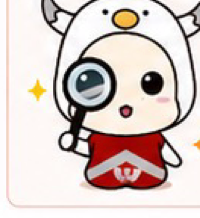
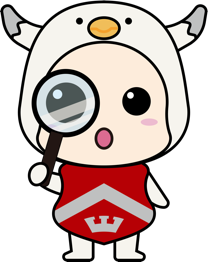
style(frontend): AI 챗봇 카드 마스코트를 서강이 이미지로 교체 (#115)
uiux/assets/4. 발견.png(4738x5969, 1MB)를 사이드바 표시 크기에 맞춰
208x262로 줄여 stream-mascot.png를 대체했다. 표시 크기의 약 3배라
레티나에서도 또렷하고, 파일은 80KB → 40KB로 오히려 작아졌다.

- 새 이미지는 세로가 더 길어(비율 0.79 vs 기존 0.92) 52px 폭 그대로면
  작아 보여서 72x91로 키웠다. 사이드바 세로 여유 174px, 카드 안쪽 폭
  193px 안에 들어간다
- width/height를 모두 명시해 이미지 로드 전 레이아웃이 밀리지 않게 했다

diff --git a/frontend/src/components/layout/Shell.jsx b/frontend/src/components/layout/Shell.jsx
@@ -71,10 +71,13 @@ function ChatbotCard() {
       display: 'flex', flexDirection: 'column', alignItems: 'center',
       textAlign: 'center', gap: 3,
     }}>
+      {/* 서강이 마스코트 — 원본 비율 208:262. width/height를 모두 적어 로드 전 레이아웃 밀림을 막는다 */}
       <img
         src="/assets/stream-mascot.png"
         alt=""
-        style={{ width: 52, height: 'auto', objectFit: 'contain', marginBottom: 3 }}
+        width={72}
+        height={91}
+        style={{ objectFit: 'contain', marginBottom: 3 }}
         onError={e => { e.target.style.display = 'none' }}
       />
       <div style={{ fontSize: 'var(--fs-body)', fontWeight: 'var(--fw-extrabold)', color: 'var(--sogang-red)', fontFamily: 'var(--font-saint)' }}>AI 챗봇</div>
